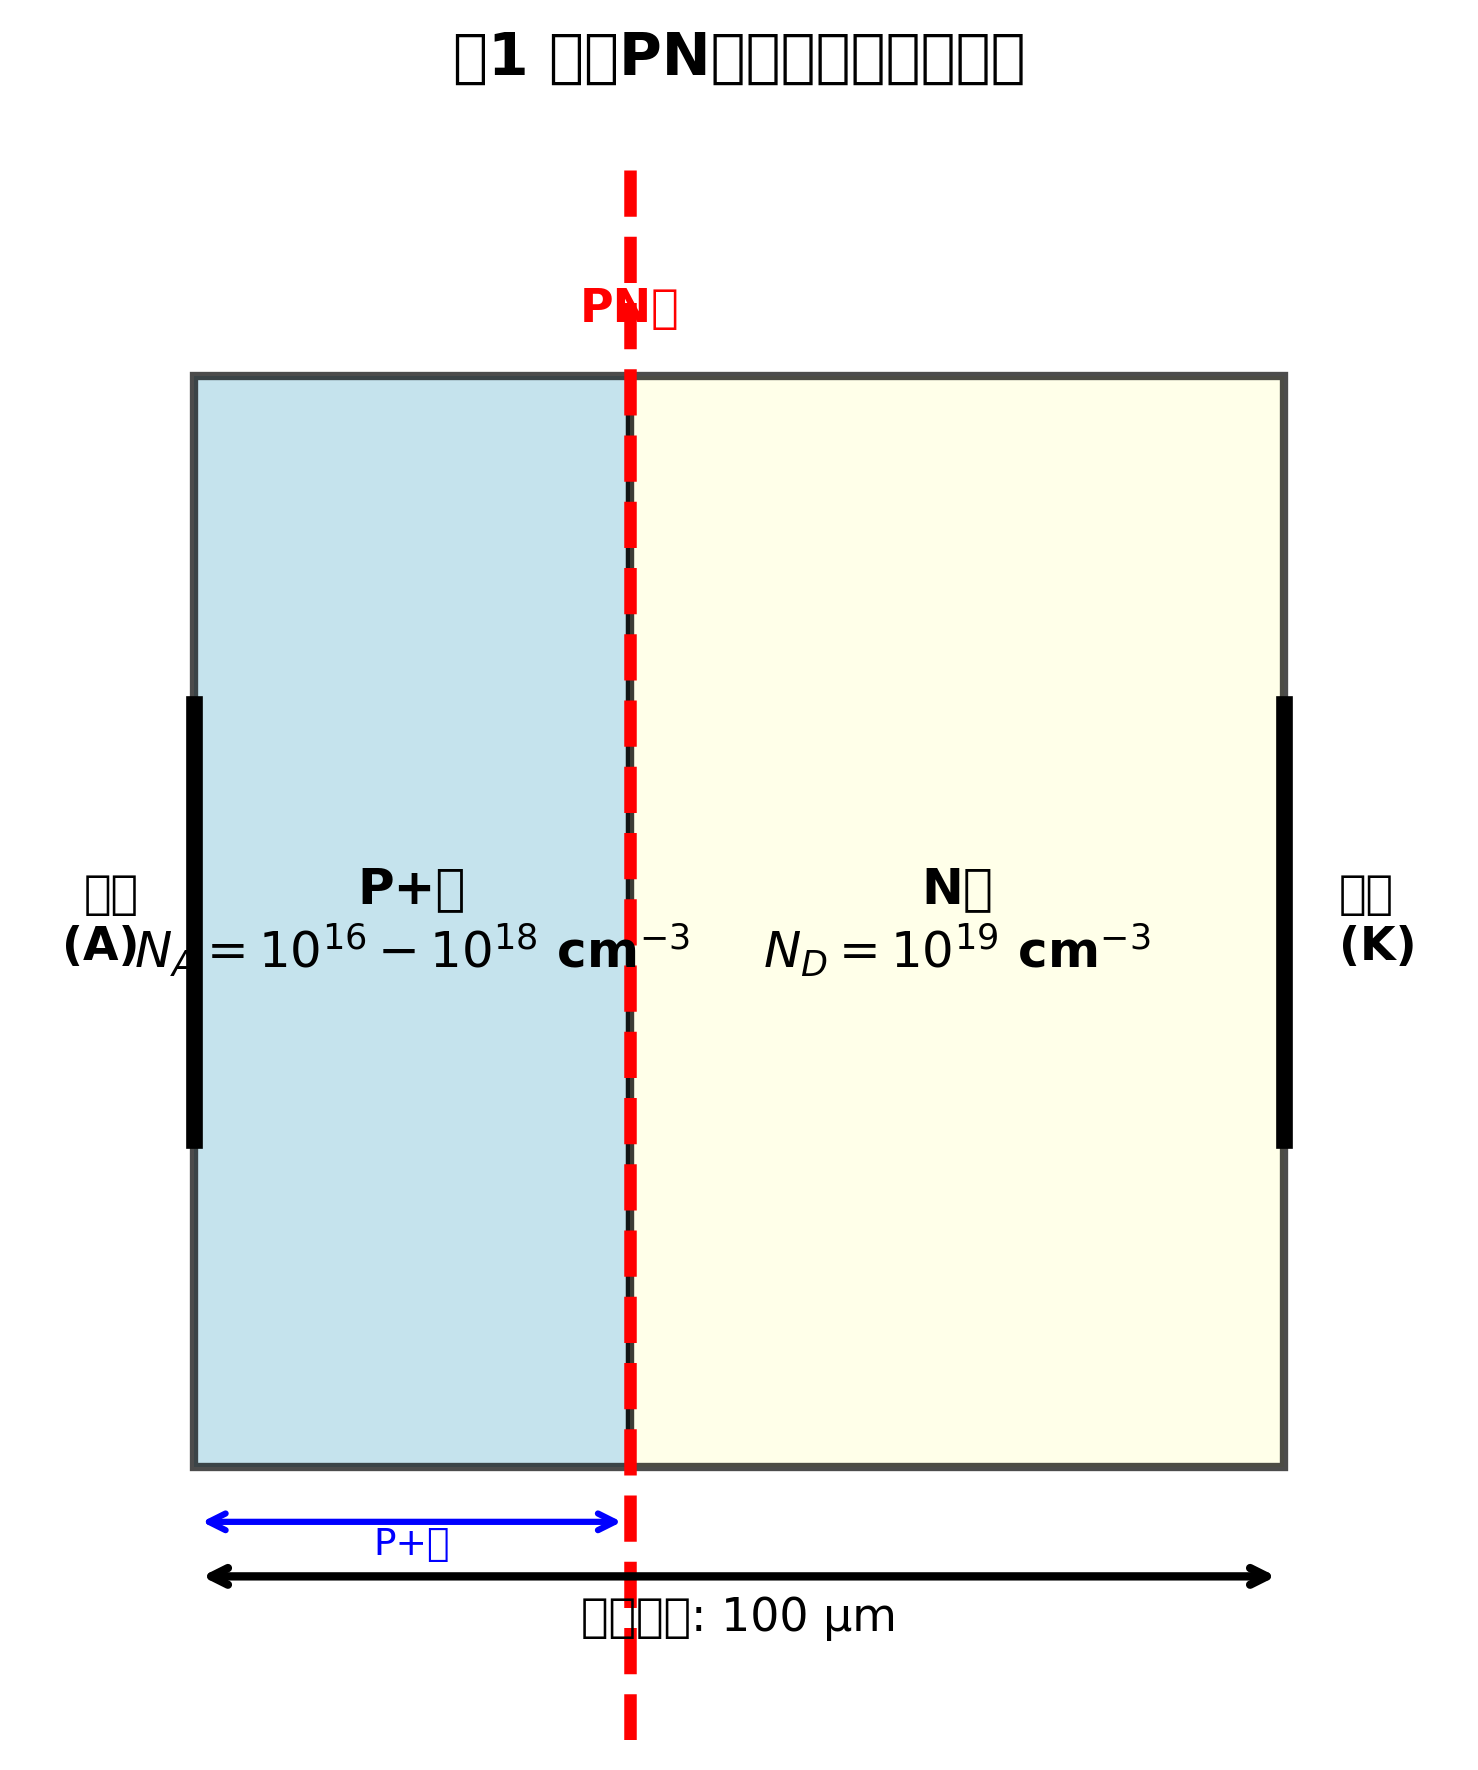
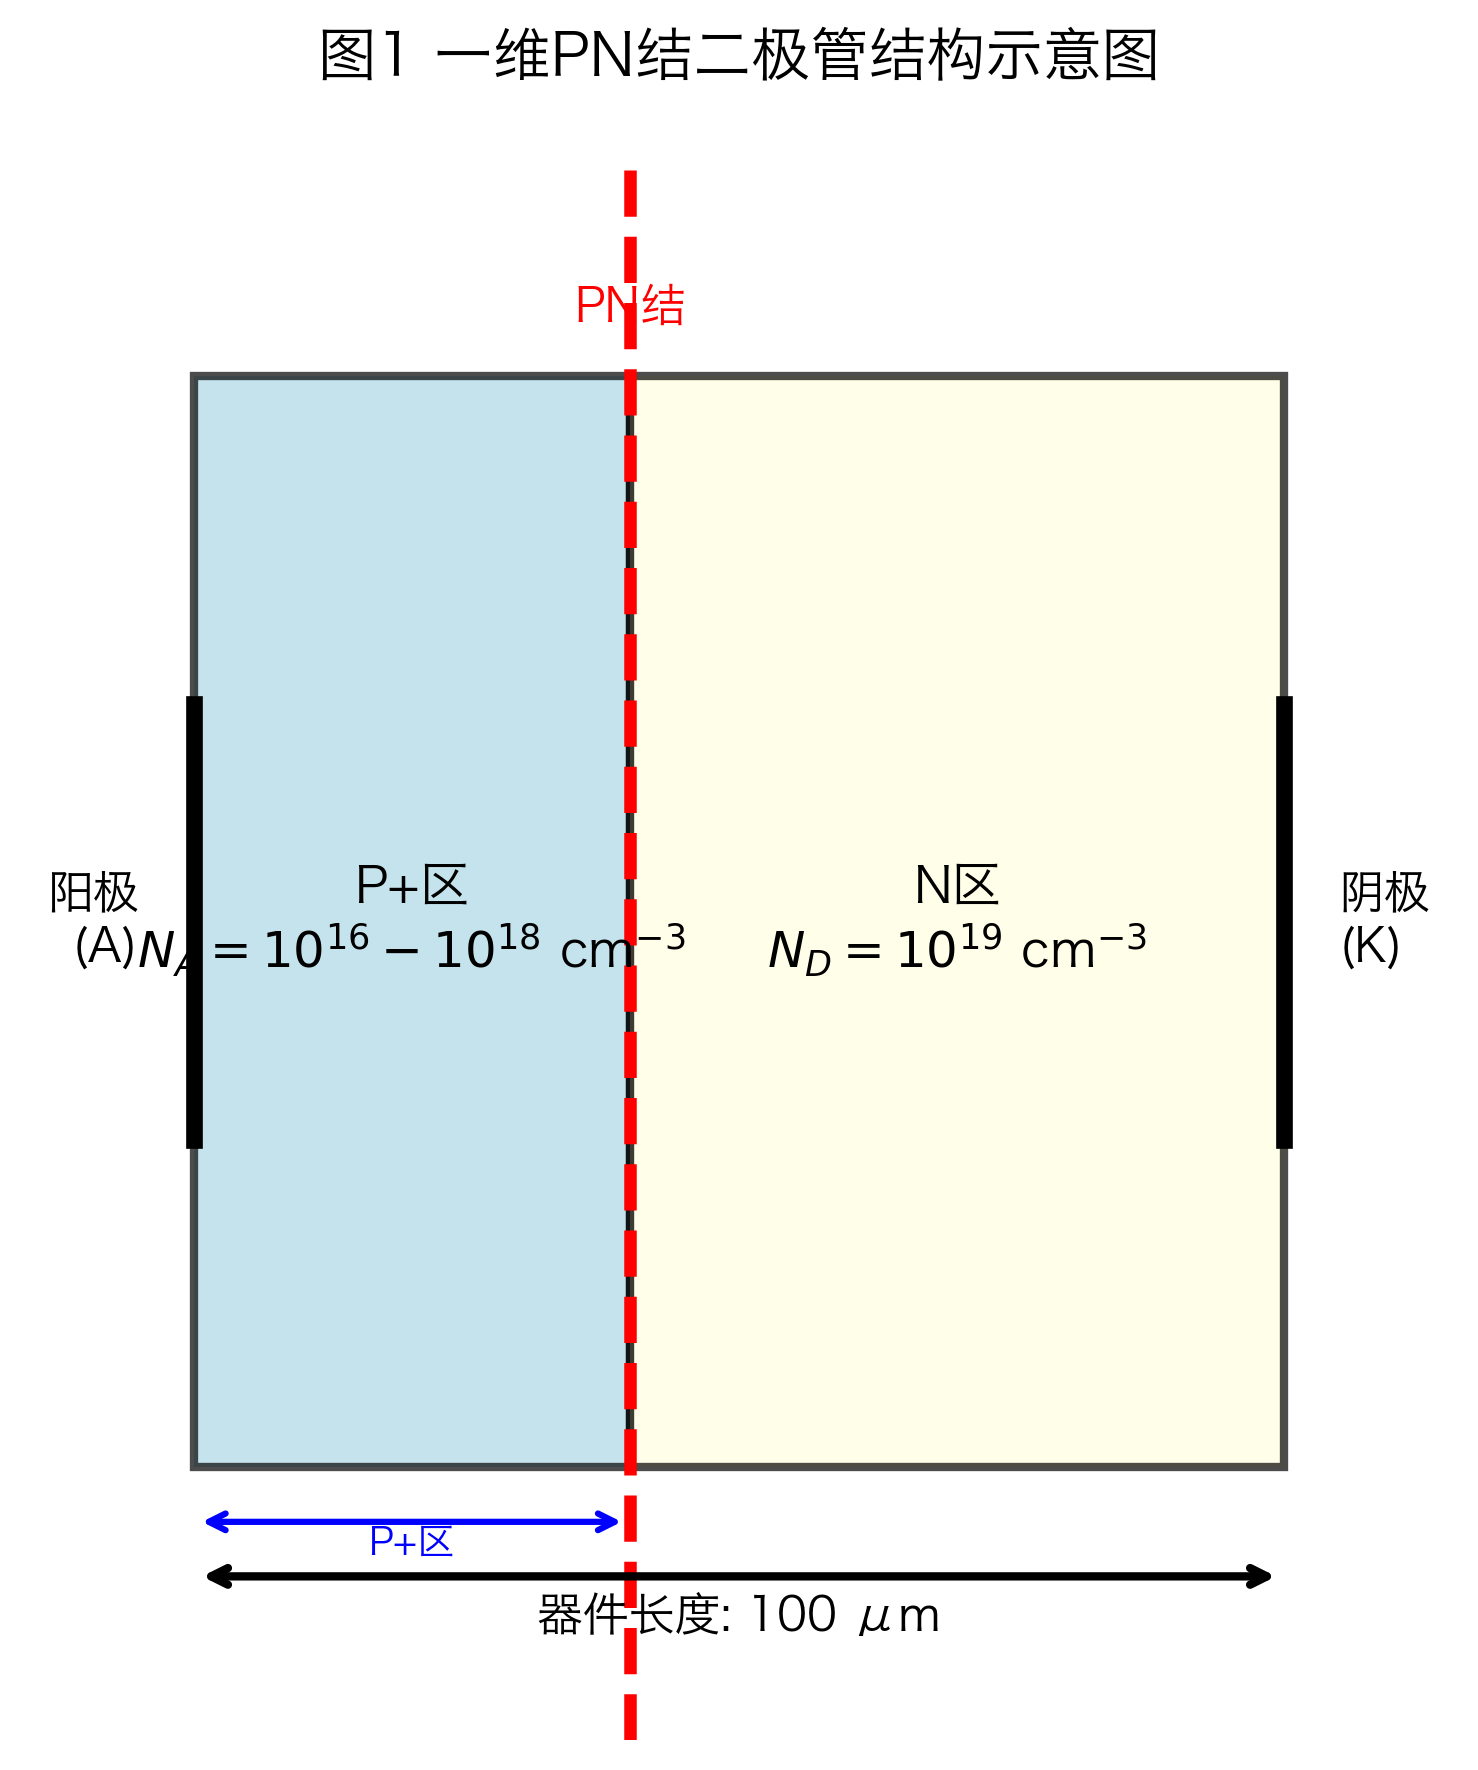
Generate paper figures with Hiragino Sans GB Chinese font support
- All 5 figures now display Chinese characters correctly
- Using Hiragino Sans GB font as specified by user
- Fixed duplicate paragraph in draft.md
- Generated high-quality 300 DPI PNG figures suitable for publication

Figures generated:
- fig1_structure.png: Device structure schematic
- fig2_lifetime_effects.png: Carrier lifetime effects (4 subplots)
- fig3_doping_effects.png: Doping concentration effects (3 subplots)
- fig4_pareto_front.png: Pareto optimization front
- fig5_doping_tradeoff.png: Doping trade-off curve

diff --git a/workspace/plan1/generate_paper_figures_v2.py b/workspace/plan1/generate_paper_figures_v2.py
@@ -1,0 +1,370 @@
+#!/usr/bin/env python3
+"""
+生成学术论文标准图表 - 使用 Hiragino Sans GB 中文字体
+按照论文 draft.md 中的图表组织方式
+"""
+
+import sys
+import os
+import numpy as np
+import matplotlib.pyplot as plt
+import matplotlib.patches as mpatches
+from matplotlib.patches import FancyBboxPatch, FancyArrowPatch
+import json
+
+# 设置中文字体 - 使用用户提供的可用字体
+plt.rcParams['font.sans-serif'] = ['Hiragino Sans GB', 'SimHei', 'DejaVu Sans']
+plt.rcParams['axes.unicode_minus'] = False  # 正确显示负号
+
+# 创建输出目录
+os.makedirs('figures/final', exist_ok=True)
+
+# 读取数据
+with open('data/final/lifetime_results.json', 'r') as f:
+    lifetime_results = json.load(f)
+
+with open('data/final/doping_results.json', 'r') as f:
+    doping_results = json.load(f)
+
+print("生成学术论文标准图表（使用 Hiragino Sans GB 字体）...")
+
+# ============================================
+# 图1：一维PN结二极管结构示意图
+# ============================================
+fig, ax = plt.subplots(figsize=(10, 6))
+
+# 绘制器件结构
+# P+区
+p_region = plt.Rectangle((0, 0), 0.4, 1, linewidth=2, 
+                         edgecolor='black', facecolor='lightblue', alpha=0.7)
+ax.add_patch(p_region)
+ax.text(0.2, 0.5, 'P+区\n$N_A = 10^{16}-10^{18}$ cm$^{-3}$', 
+        ha='center', va='center', fontsize=12, fontweight='bold')
+
+# N区
+n_region = plt.Rectangle((0.4, 0), 0.6, 1, linewidth=2, 
+                         edgecolor='black', facecolor='lightyellow', alpha=0.7)
+ax.add_patch(n_region)
+ax.text(0.7, 0.5, 'N区\n$N_D = 10^{19}$ cm$^{-3}$', 
+        ha='center', va='center', fontsize=12, fontweight='bold')
+
+# 结位置标注
+ax.axvline(x=0.4, color='red', linewidth=3, linestyle='--', label='PN结')
+ax.text(0.4, 1.05, 'PN结', ha='center', fontsize=11, color='red', fontweight='bold')
+
+# 电极
+ax.plot([0, 0], [0.3, 0.7], 'k-', linewidth=4)
+ax.text(-0.05, 0.5, '阳极\n(A)', ha='right', va='center', fontsize=11, fontweight='bold')
+
+ax.plot([1, 1], [0.3, 0.7], 'k-', linewidth=4)
+ax.text(1.05, 0.5, '阴极\n(K)', ha='left', va='center', fontsize=11, fontweight='bold')
+
+# 尺寸标注
+ax.annotate('', xy=(0, -0.1), xytext=(1, -0.1),
+            arrowprops=dict(arrowstyle='<->', color='black', lw=2))
+ax.text(0.5, -0.15, '器件长度: 100 μm', ha='center', fontsize=11)
+
+ax.annotate('', xy=(0.4, -0.05), xytext=(0, -0.05),
+            arrowprops=dict(arrowstyle='<->', color='blue', lw=1.5))
+ax.text(0.2, -0.08, 'P+区', ha='center', fontsize=9, color='blue')
+
+ax.set_xlim(-0.15, 1.15)
+ax.set_ylim(-0.25, 1.2)
+ax.set_aspect('equal')
+ax.axis('off')
+ax.set_title('图1 一维PN结二极管结构示意图', fontsize=14, fontweight='bold', pad=20)
+
+plt.tight_layout()
+plt.savefig('figures/final/fig1_structure.png', dpi=300, bbox_inches='tight')
+print("✓ 已保存图1: fig1_structure.png")
+plt.close()
+
+# ============================================
+# 图2：载流子寿命对器件特性的影响（4个子图）
+# ============================================
+fig, axes = plt.subplots(2, 2, figsize=(14, 12))
+
+taus = [r['tau'] for r in lifetime_results]
+vfs = [r['vf'] for r in lifetime_results]
+currents = [r['current_density_A_cm2'] for r in lifetime_results]
+rons = [r['r_on_ohm_cm2'] for r in lifetime_results]
+qrrs = [r['qrr_C_cm2'] for r in lifetime_results]
+
+# (a) 内建电势与载流子寿命
+ax = axes[0, 0]
+ax.semilogx(taus, vfs, 'bo-', linewidth=2.5, markersize=10, 
+           markerfacecolor='lightblue', markeredgecolor='darkblue', markeredgewidth=2)
+ax.set_xlabel('载流子寿命 τ (s)', fontsize=13, fontweight='bold')
+ax.set_ylabel('内建电势 $V_{bi}$ (V)', fontsize=13, fontweight='bold')
+ax.set_title('(a) 内建电势与载流子寿命的关系', fontsize=13, fontweight='bold')
+ax.grid(True, alpha=0.4, which='both', linestyle='--')
+ax.set_ylim([0.85, 0.90])
+ax.text(0.05, 0.95, f'$V_{{bi}} = {np.mean(vfs):.3f}$ V (恒定)', 
+       transform=ax.transAxes, fontsize=11, verticalalignment='top',
+       bbox=dict(boxstyle='round', facecolor='wheat', alpha=0.8))
+
+# (b) 正向电流密度与载流子寿命
+ax = axes[0, 1]
+ax.loglog(taus, currents, 'rs-', linewidth=2.5, markersize=10, 
+         markerfacecolor='lightcoral', markeredgecolor='darkred', markeredgewidth=2)
+ax.set_xlabel('载流子寿命 τ (s)', fontsize=13, fontweight='bold')
+ax.set_ylabel('正向电流密度 $J_F$ (A/cm$^2$)', fontsize=13, fontweight='bold')
+ax.set_title('(b) 正向电流密度与载流子寿命的关系', fontsize=13, fontweight='bold')
+ax.grid(True, alpha=0.4, which='both', linestyle='--')
+# 添加趋势线
+z = np.polyfit(np.log10(taus), np.log10(currents), 1)
+slope_text = f'斜率 = {z[0]:.2f}'
+ax.text(0.05, 0.95, slope_text, transform=ax.transAxes, fontsize=11,
+       verticalalignment='top', bbox=dict(boxstyle='round', facecolor='wheat', alpha=0.8))
+
+# (c) 反向恢复电荷与载流子寿命
+ax = axes[1, 0]
+ax.loglog(taus, qrrs, 'g^-', linewidth=2.5, markersize=10, 
+         markerfacecolor='lightgreen', markeredgecolor='darkgreen', markeredgewidth=2)
+ax.set_xlabel('载流子寿命 τ (s)', fontsize=13, fontweight='bold')
+ax.set_ylabel('反向恢复电荷 $Q_{rr}$ (C/cm$^2$)', fontsize=13, fontweight='bold')
+ax.set_title('(c) 反向恢复电荷与载流子寿命的关系', fontsize=13, fontweight='bold')
+ax.grid(True, alpha=0.4, which='both', linestyle='--')
+# 添加理论线
+qrr_theory = [1e-2 * t for t in taus]  # 理论值
+ax.loglog(taus, qrr_theory, 'k--', linewidth=2, alpha=0.5, label='理论值 ($Q_{rr} = \\tau \\cdot J_F$)')
+# 计算实际比例系数
+ratio = qrrs[2] / (taus[2] * currents[2])
+ax.text(0.05, 0.95, f'$Q_{{rr}} \\approx {ratio:.1f} \\cdot \\tau \\cdot J_F$', 
+       transform=ax.transAxes, fontsize=11, verticalalignment='top',
+       bbox=dict(boxstyle='round', facecolor='wheat', alpha=0.8))
+ax.legend(fontsize=11, loc='lower right')
+
+# (d) 导通电阻与载流子寿命
+ax = axes[1, 1]
+ax.loglog(taus, rons, 'mv-', linewidth=2.5, markersize=10, 
+         markerfacecolor='plum', markeredgecolor='purple', markeredgewidth=2)
+ax.set_xlabel('载流子寿命 τ (s)', fontsize=13, fontweight='bold')
+ax.set_ylabel('导通电阻 $R_{on}$ (Ω·cm$^2$)', fontsize=13, fontweight='bold')
+ax.set_title('(d) 导通电阻与载流子寿命的关系', fontsize=13, fontweight='bold')
+ax.grid(True, alpha=0.4, which='both', linestyle='--')
+# 添加趋势说明
+ax.text(0.05, 0.95, '$R_{on} \\propto \\sqrt{\\tau}$', 
+       transform=ax.transAxes, fontsize=11, verticalalignment='top',
+       bbox=dict(boxstyle='round', facecolor='wheat', alpha=0.8))
+
+plt.tight_layout()
+plt.savefig('figures/final/fig2_lifetime_effects.png', dpi=300, bbox_inches='tight')
+print("✓ 已保存图2: fig2_lifetime_effects.png")
+plt.close()
+
+# ============================================
+# 图3：掺杂浓度对器件特性的影响（3个子图）
+# ============================================
+fig, axes = plt.subplots(1, 3, figsize=(18, 6))
+
+dopings = [r['p_doping'] for r in doping_results]
+vbis = [r['V_bi'] for r in doping_results]
+rons_d = [r['r_on_ohm_cm2'] for r in doping_results]
+bvs = [r['breakdown_voltage_V'] for r in doping_results]
+
+# (a) 内建电势与掺杂浓度
+ax = axes[0]
+ax.semilogx(dopings, vbis, 'co-', linewidth=2.5, markersize=10, 
+           markerfacecolor='lightcyan', markeredgecolor='darkcyan', markeredgewidth=2)
+ax.set_xlabel('P区掺杂浓度 $N_A$ (cm$^{-3}$)', fontsize=13, fontweight='bold')
+ax.set_ylabel('内建电势 $V_{bi}$ (V)', fontsize=13, fontweight='bold')
+ax.set_title('(a) 内建电势与掺杂浓度的关系', fontsize=13, fontweight='bold')
+ax.grid(True, alpha=0.4, which='both', linestyle='--')
+# 理论线
+n_i = 1.5e10
+N_D = 1e19
+vbis_theory = [0.02585 * np.log(n * N_D / (n_i**2)) for n in dopings]
+ax.semilogx(dopings, vbis_theory, 'r--', linewidth=2, alpha=0.6, label='理论曲线')
+ax.legend(fontsize=11)
+ax.text(0.05, 0.95, '$V_{bi} = \\frac{kT}{q} \\ln(\\frac{N_A N_D}{n_i^2})$', 
+       transform=ax.transAxes, fontsize=11, verticalalignment='top',
+       bbox=dict(boxstyle='round', facecolor='wheat', alpha=0.8))
+
+# (b) 导通电阻与掺杂浓度
+ax = axes[1]
+ax.loglog(dopings, rons_d, 'yv-', linewidth=2.5, markersize=10, 
+         markerfacecolor='lightyellow', markeredgecolor='orange', markeredgewidth=2)
+ax.set_xlabel('P区掺杂浓度 $N_A$ (cm$^{-3}$)', fontsize=13, fontweight='bold')
+ax.set_ylabel('导通电阻 $R_{on}$ (Ω·cm$^2$)', fontsize=13, fontweight='bold')
+ax.set_title('(b) 导通电阻与掺杂浓度的关系', fontsize=13, fontweight='bold')
+ax.grid(True, alpha=0.4, which='both', linestyle='--')
+# 添加最优区域
+ax.axvspan(1e16, 1e17, alpha=0.2, color='green', label='最优设计区域')
+ax.legend(fontsize=11)
+ax.text(0.05, 0.95, '$R_{on} \\propto \\frac{1}{\\sqrt{N_A}}$', 
+       transform=ax.transAxes, fontsize=11, verticalalignment='top',
+       bbox=dict(boxstyle='round', facecolor='wheat', alpha=0.8))
+
+# (c) 击穿电压与掺杂浓度
+ax = axes[2]
+ax.loglog(dopings, bvs, 'bs-', linewidth=2.5, markersize=10, 
+         markerfacecolor='lightblue', markeredgecolor='darkblue', markeredgewidth=2)
+ax.set_xlabel('P区掺杂浓度 $N_A$ (cm$^{-3}$)', fontsize=13, fontweight='bold')
+ax.set_ylabel('击穿电压 $BV$ (V)', fontsize=13, fontweight='bold')
+ax.set_title('(c) 击穿电压与掺杂浓度的关系', fontsize=13, fontweight='bold')
+ax.grid(True, alpha=0.4, which='both', linestyle='--')
+# 添加最优区域
+ax.axvspan(1e16, 1e17, alpha=0.2, color='green', label='最优设计区域')
+ax.legend(fontsize=11)
+ax.text(0.05, 0.95, '$BV \\propto \\frac{1}{N_A}$', 
+       transform=ax.transAxes, fontsize=11, verticalalignment='top',
+       bbox=dict(boxstyle='round', facecolor='wheat', alpha=0.8))
+
+plt.tight_layout()
+plt.savefig('figures/final/fig3_doping_effects.png', dpi=300, bbox_inches='tight')
+print("✓ 已保存图3: fig3_doping_effects.png")
+plt.close()
+
+# ============================================
+# 图4：Pareto前沿曲线（载流子寿命优化）
+# ============================================
+fig, ax = plt.subplots(figsize=(12, 9))
+
+qrrs_pareto = [r['qrr_C_cm2'] for r in lifetime_results]
+vfs_pareto = [r['vf'] for r in lifetime_results]
+taus_labels = ['10 ns', '100 ns', '1 μs', '10 μs', '100 μs']
+
+# 使用对数坐标
+ax.set_xscale('log')
+
+# 绘制数据点
+colors = plt.cm.viridis(np.linspace(0, 1, len(taus)))
+scatter = ax.scatter(qrrs_pareto, vfs_pareto, s=350, c=colors, 
+                    edgecolors='black', linewidth=2.5, zorder=5, marker='o')
+
+# 绘制连接线
+ax.plot(qrrs_pareto, vfs_pareto, 'k--', alpha=0.4, linewidth=2, zorder=1)
+
+# 添加标签 - 使用连线避免重叠
+annotations = [
+    {'idx': 0, 'offset': (-150, 30), 'ha': 'right'},
+    {'idx': 1, 'offset': (-120, -40), 'ha': 'right'},
+    {'idx': 2, 'offset': (0, 50), 'ha': 'center'},
+    {'idx': 3, 'offset': (120, -40), 'ha': 'left'},
+    {'idx': 4, 'offset': (150, 30), 'ha': 'left'},
+]
+
+for ann in annotations:
+    idx = ann['idx']
+    q = qrrs_pareto[idx]
+    v = vfs_pareto[idx]
+    tau_label = taus_labels[idx]
+    
+    # 创建标注文本
+    textstr = f"{tau_label}\n$Q_{{rr}}$={q:.1e} C/cm$^2$\n$V_{{bi}}$={v:.3f}V"
+    
+    # 添加标注
+    ax.annotate(textstr, 
+                xy=(q, v), 
+                xytext=ann['offset'],
+                textcoords='offset points',
+                ha=ann['ha'],
+                va='center',
+                fontsize=10,
+                fontweight='bold',
+                bbox=dict(boxstyle='round,pad=0.5', facecolor='lightyellow', 
+                         edgecolor='black', linewidth=1.5, alpha=0.9),
+                arrowprops=dict(arrowstyle='->', connectionstyle='arc3,rad=0.15',
+                              color='black', linewidth=1.2),
+                zorder=10)
+
+# 添加设计区域标注
+ax.axvspan(5e-11, 5e-10, alpha=0.15, color='blue', label='高速区 (>100 kHz)')
+ax.axvspan(5e-9, 5e-8, alpha=0.15, color='green', label='中速区 (10-100 kHz)')
+ax.axvspan(5e-7, 5e-6, alpha=0.15, color='red', label='低速区 (<10 kHz)')
+
+ax.set_xlabel('反向恢复电荷 $Q_{rr}$ (C/cm$^2$)', fontsize=14, fontweight='bold')
+ax.set_ylabel('内建电势 $V_{bi}$ (V)', fontsize=14, fontweight='bold')
+ax.set_title('图4 功率二极管载流子寿命Pareto前沿曲线\n$V_{bi}$与$Q_{rr}$的权衡关系', 
+            fontsize=15, fontweight='bold', pad=20)
+
+ax.grid(True, alpha=0.3, which='both', linestyle='--')
+ax.set_xlim(3e-11, 5e-6)
+ax.set_ylim(0.865, 0.885)
+
+# 添加图例
+legend_elements = [
+    plt.Line2D([0], [0], marker='o', color='w', markerfacecolor='blue', 
+               markersize=12, label='τ = 10 ns (超高速)'),
+    plt.Line2D([0], [0], marker='o', color='w', markerfacecolor='green', 
+               markersize=12, label='τ = 1 μs (平衡型)'),
+    plt.Line2D([0], [0], marker='o', color='w', markerfacecolor='red', 
+               markersize=12, label='τ = 100 μs (低损耗)'),
+]
+ax.legend(handles=legend_elements, loc='upper right', fontsize=11, 
+         framealpha=0.95, edgecolor='black')
+
+plt.tight_layout()
+plt.savefig('figures/final/fig4_pareto_front.png', dpi=300, bbox_inches='tight')
+print("✓ 已保存图4: fig4_pareto_front.png")
+plt.close()
+
+# ============================================
+# 图5：掺杂浓度权衡曲线（双坐标轴）
+# ============================================
+fig, ax1 = plt.subplots(figsize=(12, 8))
+
+# 主图：Ron vs Doping
+line1 = ax1.loglog(dopings, rons_d, 'ro-', linewidth=3, markersize=12, 
+                  markerfacecolor='lightcoral', markeredgecolor='darkred', 
+                  markeredgewidth=2, label='$R_{on}$', zorder=5)
+ax1.set_xlabel('P区掺杂浓度 $N_A$ (cm$^{-3}$)', fontsize=14, fontweight='bold')
+ax1.set_ylabel('导通电阻 $R_{on}$ (Ω·cm$^2$)', fontsize=14, fontweight='bold', color='red')
+ax1.tick_params(axis='y', labelcolor='red', labelsize=11)
+ax1.tick_params(axis='x', labelsize=11)
+ax1.grid(True, alpha=0.4, which='both', linestyle='--')
+
+# 次坐标轴：击穿电压
+ax2 = ax1.twinx()
+line2 = ax2.loglog(dopings, bvs, 'bs--', linewidth=3, markersize=10, 
+                  markerfacecolor='lightblue', markeredgecolor='darkblue', 
+                  markeredgewidth=2, label='$BV$', zorder=4)
+ax2.set_ylabel('击穿电压 $BV$ (V)', fontsize=14, fontweight='bold', color='blue')
+ax2.tick_params(axis='y', labelcolor='blue', labelsize=11)
+ax2.set_ylim([1, 5000])
+
+# 添加数据点标注
+for i, (d, r, b) in enumerate(zip(dopings, rons_d, bvs)):
+    # Ron标注（左侧）
+    offset_r = 20 if i % 2 == 0 else -50
+    ax1.annotate(f'{r:.2e}', xy=(d, r), xytext=(-40, offset_r),
+                textcoords='offset points', fontsize=9, color='red',
+                bbox=dict(boxstyle='round,pad=0.3', facecolor='white', 
+                         edgecolor='red', alpha=0.8))
+    
+    # BV标注（右侧）
+    offset_b = 30 if i % 2 == 1 else -40
+    ax2.annotate(f'{b:.0f}V', xy=(d, b), xytext=(40, offset_b),
+                textcoords='offset points', fontsize=9, color='blue',
+                bbox=dict(boxstyle='round,pad=0.3', facecolor='white',
+                         edgecolor='blue', alpha=0.8))
+
+# 添加最优区域阴影
+ax1.axvspan(1e16, 1e17, alpha=0.2, color='green', label='最优设计区域')
+
+# 合并图例
+lines1, labels1 = ax1.get_legend_handles_labels()
+lines2, labels2 = ax2.get_legend_handles_labels()
+ax1.legend(lines1 + lines2 + [plt.Rectangle((0,0),1,1, fc='green', alpha=0.2)],
+          labels1 + labels2 + ['最优设计区 ($10^{16}-10^{17}$ cm$^{-3}$)'],
+          loc='center left', fontsize=11, framealpha=0.95)
+
+ax1.set_title('图5 功率二极管掺杂浓度权衡曲线\n$R_{on}$与$BV$的Pareto优化', 
+             fontsize=15, fontweight='bold', pad=20)
+
+plt.tight_layout()
+plt.savefig('figures/final/fig5_doping_tradeoff.png', dpi=300, bbox_inches='tight')
+print("✓ 已保存图5: fig5_doping_tradeoff.png")
+plt.close()
+
+print("\n" + "="*70)
+print("✅ 学术论文图表生成完成！（使用 Hiragino Sans GB 字体）")
+print("="*70)
+print("\n生成的图表列表:")
+print("  📊 fig1_structure.png - 图1：一维PN结二极管结构示意图")
+print("  📊 fig2_lifetime_effects.png - 图2：载流子寿命对器件特性的影响（4子图）")
+print("  📊 fig3_doping_effects.png - 图3：掺杂浓度对器件特性的影响（3子图）")
+print("  📊 fig4_pareto_front.png - 图4：Pareto前沿曲线")
+print("  📊 fig5_doping_tradeoff.png - 图5：掺杂浓度权衡曲线")
+print("="*70)
